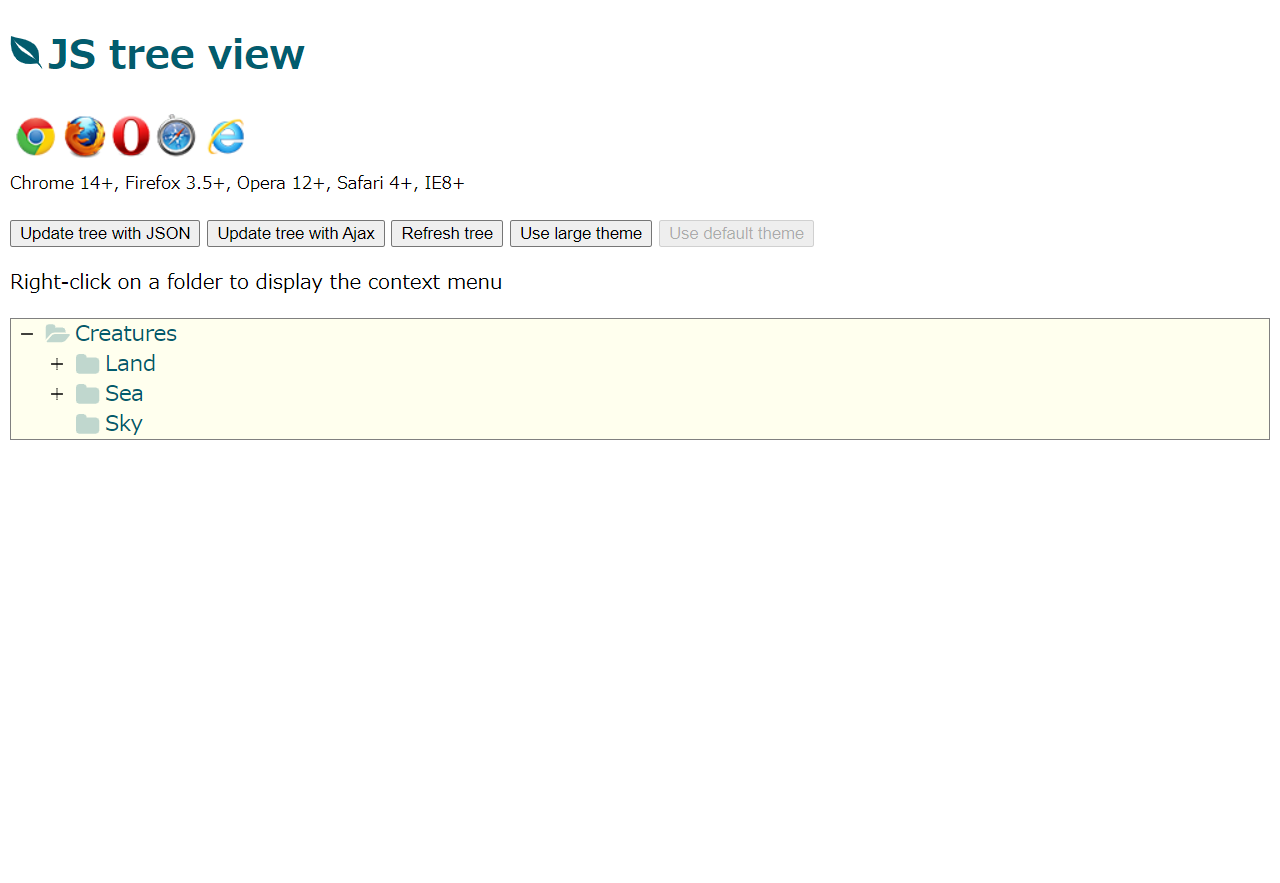
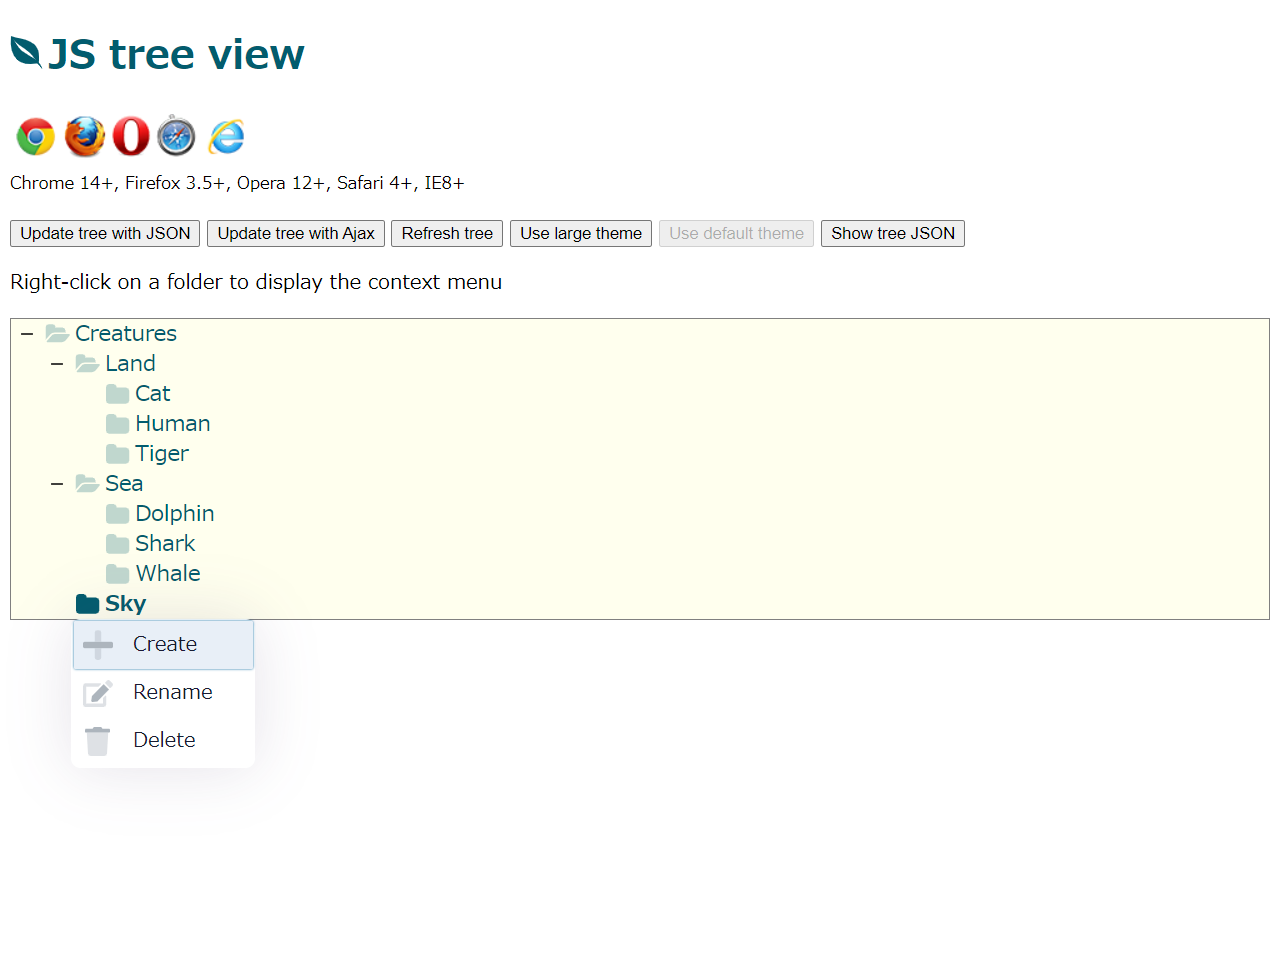
Added a function that returns an array of tree nodes converted to JSON.

Changed region(s): [[0.0, 0.1223, 0.75, 0.795], [0.0, 0.0306, 0.25, 0.0917]]

diff --git a/src/js/Tree.js b/src/js/Tree.js
@@ -8,21 +8,36 @@ export default class {
     // console.log(JSON.stringify(this.opts, null, 2));
 
     // Tree instance.
-    globalThis.tree = this.tree = $(ctx).jstree({
+    this.tree = $(ctx).jstree({
       core: {
         // data configuration.
         data: {
+          type: 'GET',
           url : node => {
             const url = `src/json/${encodeURIComponent(node.id)}.json`;
             console.log(`Request ${url}`);
             return url;
           },
-          // data: node => {
-          //   console.log('#data node=', node)
-          //   // return { 'id' : node.id };
-          // },
-          dataType : 'json'
+          contentType: 'application/json; charset=utf-8',
+          success: data => {
+            console.log('Response: ', data);
+            // // for (let child of  data)
+            // //   child.children = true;
+            // console.log('Data after change: ', data);
+          }
         },
+        // data: {
+        //   url : node => {
+        //     const url = `src/json/${encodeURIComponent(node.id)}.json`;
+        //     console.log(`Request ${url}`);
+        //     return url;
+        //   },
+        //   data: (...args) => {
+        //     console.log('#data args=', args)
+        //     // return { 'id' : node.id };
+        //   },
+        //   dataType : 'json'
+        // },
 
         // determines what happens when a user tries to modify the structure of the tree.
         check_callback: true,
@@ -95,6 +110,8 @@ export default class {
     })
     // triggered when a node is closed and the animation is complete
     .on('after_close.jstree', (evnt, {node, instance}) => {
+      console.log(`Close node widh id ${node.id}`);
+
       // Delete the cache so that when the folder is opened, the child folder information is queried to the server again.
       this.tree.delete_node(node.children);
       this.tree._model.data[node.id].state.loaded = false;
@@ -104,6 +121,9 @@ export default class {
         const dom = this.getNode(node.id, true)[0];
         dom.classList.add('jstree-closed');
       }, 0);
+    })
+    .on('select_node.jstree', (evng, {node}) => {
+      console.log(`Select node with ID ${node.id}`);
     })
     // .on("close_node.jstree", (evnt, data) => {
     //   console.log("close_node");
@@ -138,7 +158,7 @@ export default class {
         }
       };
     for (let [key, defOpt] of Object.entries(defOpts)) {
-      console.log(`key=${key}, typeof opts[key]=${typeof opts[key]}, typeof defOpt=${typeof defOpt}`);
+      // console.log(`key=${key}, typeof opts[key]=${typeof opts[key]}, typeof defOpt=${typeof defOpt}`);
       if (!opts[key])
         opts[key] = defOpt;
       else if (typeof opts[key] === 'object' && typeof defOpt === 'object')
@@ -239,14 +259,20 @@ export default class {
       return void alert(this.opts.lang.valdn.folderExists);
 
     // Currently selected node.
-    const selNode = this.getNode(data.reference);
-    console.log('selNode=', selNode);
+    const parentNode = this.getNode(data.reference);
+    // console.log('parentNode=', parentNode);
 
     // Create a subfolder with the entered name in the selected folder.
-    this.tree.create_node(selNode, {text: newFldrName, type: 'unselFldr'}, 'last', newNode => {
+    const newNodeId = btoa(newFldrName);
+    this.tree.create_node(parentNode, {
+      id: newNodeId,
+      text: newFldrName,
+      type: 'unselFldr'
+    }, 'last', newNode => {
       // Select the newly created folder.
-      this.tree.deselect_node(selNode);
+      this.tree.deselect_node(parentNode);
       this.tree.select_node(newNode);
+      console.log(`Create a node with ID ${newNode.id}`);
     });
   }
 
@@ -323,13 +349,20 @@ export default class {
    * Change to default theme
    */
   changeDefaultTheme() {
-    tree.set_theme_variant(false);
+    this.tree.set_theme_variant(false);
   }
 
   /**
    * Change to large theme
    */
   changeLargeTheme() {
-    tree.set_theme_variant('large');
+    this.tree.set_theme_variant('large');
+  }
+
+  /**
+   * Returns an array of tree nodes converted to JSON.
+   */
+  getJson() {
+    return this.tree.get_json('#', {flat: true});
   }
 }

diff --git a/index.html b/index.html
@@ -26,6 +26,7 @@
     <button data-on-refresh-tree type="button">Refresh tree</button>
     <button data-on-use-large-theme type="button">Use large theme</button>
     <button data-on-use-default-theme type="button" disabled="disabled">Use default theme</button>
+    <button data-on-show-tree-json type="button">Show tree JSON</button>
   </p>
 
   <p>Right-click on a folder to display the context menu</p>
@@ -35,7 +36,8 @@
   </div>
 
   <script src="node_modules/jquery/dist/jquery.min.js"></script>
-  <script src="node_modules/jstree/dist/jstree.min.js"></script>
+  <script src="node_modules/jstree/dist/jstree.js"></script>
+  <!-- <script src="node_modules/jstree/dist/jstree.min.js"></script> -->
   <script type="module">
     import Tree from './src/js/Tree.js';
 
@@ -93,6 +95,9 @@
         tree.changeDefaultTheme();
         defThemeBtn.prop('disabled', true);
         lgeThemeBtn.prop('disabled', false);
+      })
+      .on('click', '[data-on-show-tree-json]', () => {
+        alert(JSON.stringify(tree.getJson()));
       });
   </script>
 </body>

diff --git a/README.md b/README.md
@@ -25,6 +25,10 @@ You can try the tree view by accessing the installed directory from your browser
 
 All notable changes to this project will be documented in this file.
 
+### [1.0.6] - 2021-11-15
+#### Fixed
+- Added a function that returns an array of tree nodes converted to JSON..
+
 ### [1.0.5] - 2021-11-12
 #### Fixed
 - Added an example to change the theme.
